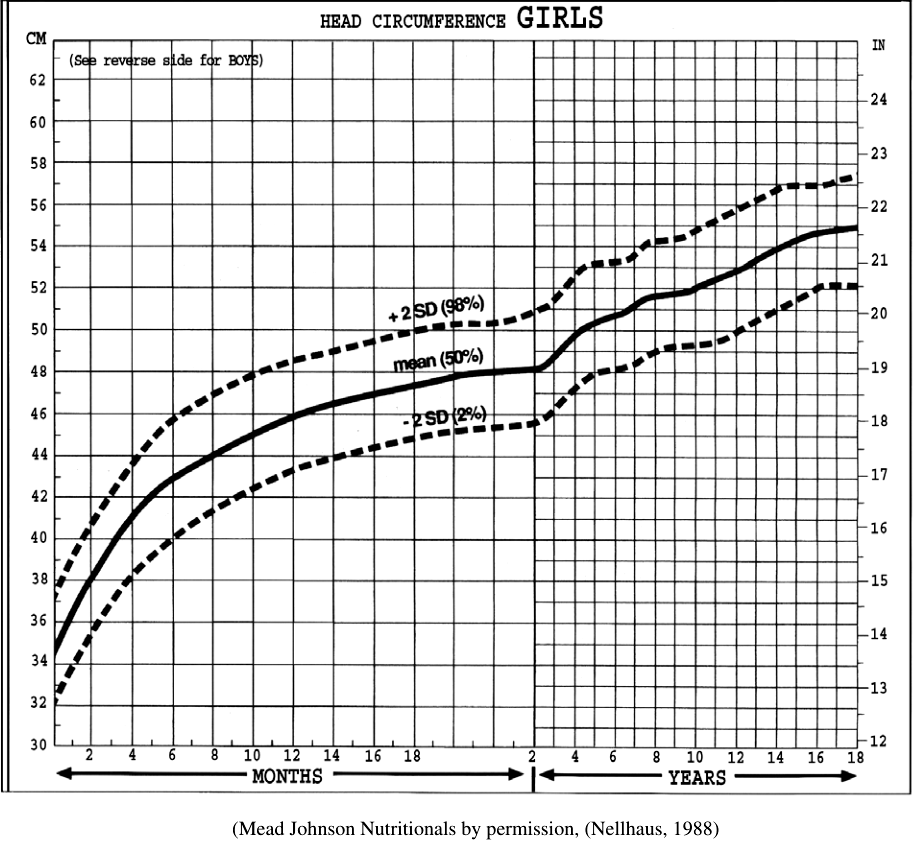
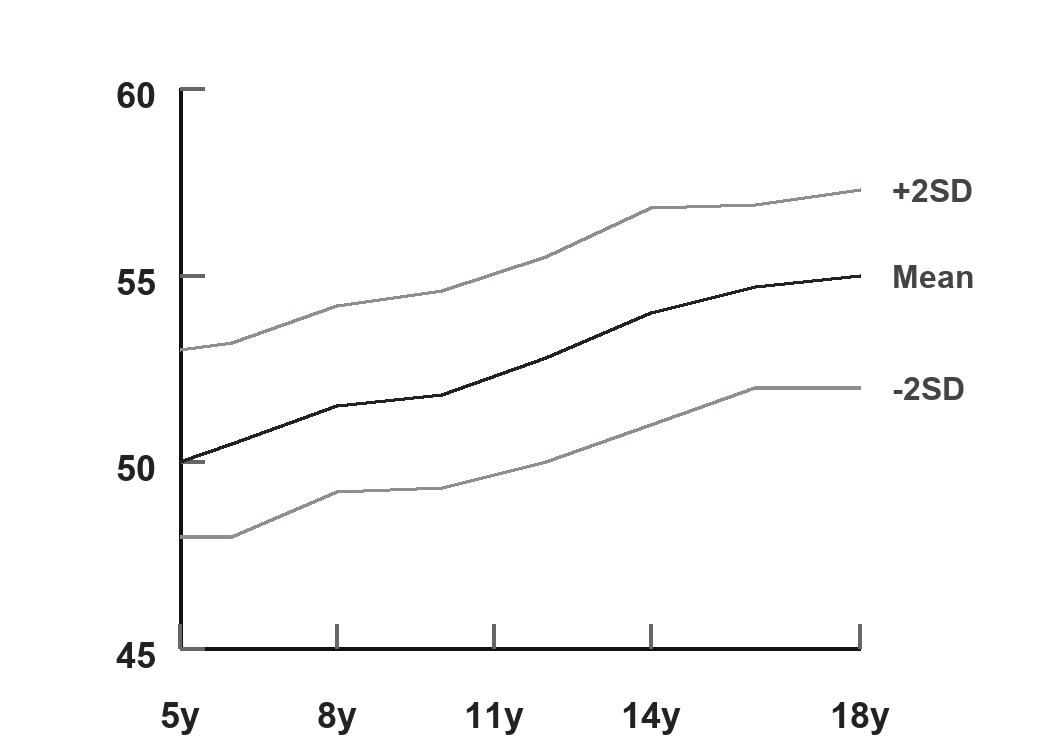
Match OFC chart visual style

Changed region(s): [[0.0, 0.0, 1.0, 1.0]]

diff --git a/app/growth-chart-dashboard.html b/app/growth-chart-dashboard.html
@@ -1098,7 +1098,7 @@
     const firebaseConfigured = Object.values(firebaseConfig).every(Boolean);
     const firebaseApp = firebaseConfigured ? initializeApp(firebaseConfig) : null;
     const db = firebaseApp ? getFirestore(firebaseApp) : null;
-    const CHART_ASSET_VERSION = '2026-05-11-iap-who-nellhaus-official';
+    const CHART_ASSET_VERSION = '2026-05-11-iap-who-nellhaus-minimal';
 
     function versionedChartAssetPath(path) {
       return `${path}${path.includes('?') ? '&' : '?'}v=${CHART_ASSET_VERSION}`;
@@ -1293,7 +1293,7 @@
     let generatedPreviewPages = [];
     let generatedPdfBase64 = '';
     const CHART_RENDER_MAX_WIDTH = 760;
-    const CHART_POINT_RADIUS = 5;
+    const CHART_POINT_RADIUS = 7;
     const GROWTH_CHART_DEBUG = new URLSearchParams(window.location.search).has('growthDebug')
       || localStorage.getItem('growthChartDebug') === '1';
     const CAN_USE_PYTHON_CHART_SERVICE = ['localhost', '127.0.0.1'].includes(window.location.hostname);

diff --git a/app/prescription-growth-chart-dashboard.html b/app/prescription-growth-chart-dashboard.html
@@ -2320,7 +2320,7 @@
     let historyPageIndex = 0;
     let selectedMeasurementDateIso = '';
     let lastHistoryDebug = null;
-    const CHART_ASSET_VERSION = '2026-05-11-iap-who-nellhaus-official';
+    const CHART_ASSET_VERSION = '2026-05-11-iap-who-nellhaus-minimal';
     const CHART_PREVIEW_VERSION = 'preview-rebuilt-2026-05-iap-2015-data-v4';
     const TEST_PAST_CHARTS_PATIENT_ID = 'TESTPAST001';
 
@@ -2558,7 +2558,7 @@
     let generatedPreviewPages = [];
     let generatedPdfBase64 = '';
     const CHART_RENDER_MAX_WIDTH = 760;
-    const CHART_POINT_RADIUS = 5;
+    const CHART_POINT_RADIUS = 7;
     const GROWTH_CHART_DEBUG = new URLSearchParams(window.location.search).has('growthDebug')
       || localStorage.getItem('growthChartDebug') === '1';
     const CAN_USE_PYTHON_CHART_SERVICE = ['localhost', '127.0.0.1'].includes(window.location.hostname);

diff --git a/app/preview.html b/app/preview.html
@@ -818,11 +818,11 @@
     let prescriptionSavePromise = null;
     let savedPrescriptionRecord = null;
     let preparedChartRecord = null;
-    const CHART_ASSET_VERSION = '2026-05-11-iap-who-nellhaus-official';
+    const CHART_ASSET_VERSION = '2026-05-11-iap-who-nellhaus-minimal';
     const CHART_PREVIEW_VERSION = 'preview-rebuilt-2026-05-iap-2015-data-v4';
     const CHART_RENDER_MAX_WIDTH = 1600;
     const CHART_RENDER_SCALE = 6;
-    const CHART_POINT_RADIUS = 5;
+    const CHART_POINT_RADIUS = 7;
     const GROWTH_CHART_DEBUG = new URLSearchParams(window.location.search).has('growthDebug')
       || localStorage.getItem('growthChartDebug') === '1';
     const chartMiniCrop = {

diff --git a/scripts/generate_nellhaus_ofc_pngs.py b/scripts/generate_nellhaus_ofc_pngs.py
@@ -1,48 +1,120 @@
 from __future__ import annotations
 
 from pathlib import Path
-from urllib.request import urlretrieve
 
-import fitz
-from PIL import Image, ImageEnhance, ImageOps
+from PIL import Image, ImageDraw, ImageFont
 
 
-PDF_URL = "https://depts.washington.edu/fasdpn/pdfs/guide2004.pdf"
-PDF_PATH = Path("tmp_fasd_guide2004.pdf")
 OUTPUT_DIR = Path("app/assets/nellhaus-official-png")
+SCALE = 4
+CANVAS_WIDTH = 260
+CANVAS_HEIGHT = 188
+PLOT_X = 45
+PLOT_Y = 22
+PLOT_WIDTH = 170
+PLOT_HEIGHT = 140
+X_MIN = 5
+X_MAX = 18
+Y_MIN = 45
+Y_MAX = 60
 
-SPECS = {
-    "girls-ofc-5-18-nellhaus.png": {
-        "page_index": 96,
-        "crop": (165, 440, 1078, 1285),
+BG = "#ffffff"
+AXIS = "#111111"
+TICK = "#666666"
+LABEL = "#222222"
+CURVE = "#8a8f96"
+MEDIAN = "#222222"
+PERCENTILE = "#444444"
+
+# Digitized from Nellhaus head circumference charts reproduced in the
+# University of Washington FAS Diagnostic & Prevention Network guide.
+NELLHAUS_CURVES = {
+    "boys": {
+        "+2SD": [(5, 54.0), (6, 54.1), (8, 55.2), (10, 56.0), (12, 56.7), (14, 57.4), (16, 57.8), (18, 58.1)],
+        "Mean": [(5, 51.5), (6, 52.0), (8, 52.8), (10, 53.4), (12, 54.0), (14, 55.0), (16, 55.8), (18, 55.8)],
+        "-2SD": [(5, 48.7), (6, 49.0), (8, 49.8), (10, 49.8), (12, 50.8), (14, 51.8), (16, 52.8), (18, 53.0)],
     },
-    "boys-ofc-5-18-nellhaus.png": {
-        "page_index": 97,
-        "crop": (132, 460, 1052, 1288),
+    "girls": {
+        "+2SD": [(5, 53.0), (6, 53.2), (8, 54.2), (10, 54.6), (12, 55.5), (14, 56.8), (16, 56.9), (18, 57.3)],
+        "Mean": [(5, 50.0), (6, 50.5), (8, 51.5), (10, 51.8), (12, 52.8), (14, 54.0), (16, 54.7), (18, 55.0)],
+        "-2SD": [(5, 48.0), (6, 48.0), (8, 49.2), (10, 49.3), (12, 50.0), (14, 51.0), (16, 52.0), (18, 52.0)],
     },
 }
 
 
-def ensure_pdf() -> None:
-    if not PDF_PATH.exists():
-        urlretrieve(PDF_URL, PDF_PATH)
+def sx(value: int | float) -> int:
+    return round(value * SCALE)
+
+
+def load_font(size: int, *, bold: bool = False) -> ImageFont.ImageFont:
+    names = ("arialbd.ttf", "Arial Bold.ttf", "DejaVuSans-Bold.ttf") if bold else ("arial.ttf", "Arial.ttf", "DejaVuSans.ttf")
+    for name in names:
+        try:
+            return ImageFont.truetype(name, sx(size))
+        except OSError:
+            continue
+    return ImageFont.load_default()
+
+
+LABEL_FONT = load_font(9, bold=True)
+PERCENTILE_FONT = load_font(8, bold=True)
+
+
+def map_point(age: float, value: float) -> tuple[int, int]:
+    x_ratio = (age - X_MIN) / (X_MAX - X_MIN)
+    y_ratio = (value - Y_MIN) / (Y_MAX - Y_MIN)
+    x = PLOT_X + PLOT_WIDTH * x_ratio
+    y = PLOT_Y + PLOT_HEIGHT - PLOT_HEIGHT * y_ratio
+    return sx(x), sx(y)
+
+
+def text_center(draw: ImageDraw.ImageDraw, xy, text: str, font, fill):
+    bbox = draw.textbbox((0, 0), text, font=font)
+    draw.text((xy[0] - (bbox[2] - bbox[0]) / 2, xy[1] - (bbox[3] - bbox[1]) / 2), text, font=font, fill=fill)
+
+
+def text_right(draw: ImageDraw.ImageDraw, xy, text: str, font, fill):
+    bbox = draw.textbbox((0, 0), text, font=font)
+    draw.text((xy[0] - (bbox[2] - bbox[0]), xy[1] - (bbox[3] - bbox[1]) / 2), text, font=font, fill=fill)
+
+
+def draw_axes(draw: ImageDraw.ImageDraw) -> None:
+    draw.line(
+        [(sx(PLOT_X), sx(PLOT_Y)), (sx(PLOT_X), sx(PLOT_Y + PLOT_HEIGHT)), (sx(PLOT_X + PLOT_WIDTH), sx(PLOT_Y + PLOT_HEIGHT))],
+        fill=AXIS,
+        width=sx(1),
+    )
+    for value in [5, 8, 11, 14, 18]:
+        x, _ = map_point(value, Y_MIN)
+        draw.line([(x, sx(PLOT_Y + PLOT_HEIGHT)), (x, sx(PLOT_Y + PLOT_HEIGHT - 6))], fill=TICK, width=sx(1))
+        text_center(draw, (x, sx(PLOT_Y + PLOT_HEIGHT + 16)), f"{value}y", LABEL_FONT, LABEL)
+
+    for value in [60, 55, 50, 45]:
+        _, y = map_point(X_MIN, value)
+        draw.line([(sx(PLOT_X), y), (sx(PLOT_X + 6), y)], fill=TICK, width=sx(1))
+        text_right(draw, (sx(PLOT_X - 6), y), str(value), LABEL_FONT, LABEL)
+
+
+def render_chart(sex: str, filename: str) -> None:
+    image = Image.new("RGB", (sx(CANVAS_WIDTH), sx(CANVAS_HEIGHT)), BG)
+    draw = ImageDraw.Draw(image)
+    draw_axes(draw)
+
+    for label, rows in NELLHAUS_CURVES[sex].items():
+        points = [map_point(age, value) for age, value in rows]
+        draw.line(points, fill=MEDIAN if label == "Mean" else CURVE, width=sx(1), joint="curve")
+        text_x, text_y = points[-1]
+        draw.text((text_x + sx(8), text_y - sx(4)), label, font=PERCENTILE_FONT, fill=PERCENTILE)
+
+    output_path = OUTPUT_DIR / filename
+    image.save(output_path, optimize=True)
+    print(f"Saved {output_path}")
 
 
 def main() -> None:
-    ensure_pdf()
     OUTPUT_DIR.mkdir(parents=True, exist_ok=True)
-
-    doc = fitz.open(PDF_PATH)
-    for filename, spec in SPECS.items():
-        page = doc[spec["page_index"]]
-        pixmap = page.get_pixmap(matrix=fitz.Matrix(2, 2), alpha=False)
-        image = Image.frombytes("RGB", (pixmap.width, pixmap.height), pixmap.samples)
-        image = image.crop(spec["crop"])
-        image = ImageOps.grayscale(image)
-        image = ImageEnhance.Contrast(image).enhance(1.15)
-        output_path = OUTPUT_DIR / filename
-        image.save(output_path, optimize=True)
-        print(f"Saved {output_path}")
+    render_chart("boys", "boys-ofc-5-18-nellhaus.png")
+    render_chart("girls", "girls-ofc-5-18-nellhaus.png")
 
 
 if __name__ == "__main__":

diff --git a/app/chart_plotting.py b/app/chart_plotting.py
@@ -166,7 +166,7 @@ def sort_entries(entries: list[dict[str, Any]]) -> list[dict[str, Any]]:
 
 
 def get_marker_metrics(image_width: int) -> tuple[int, int]:
-    radius = max(5, round(image_width * 0.0035))
+    radius = max(7, round(image_width * 0.0045))
     outline_width = 0
     return radius, outline_width
 